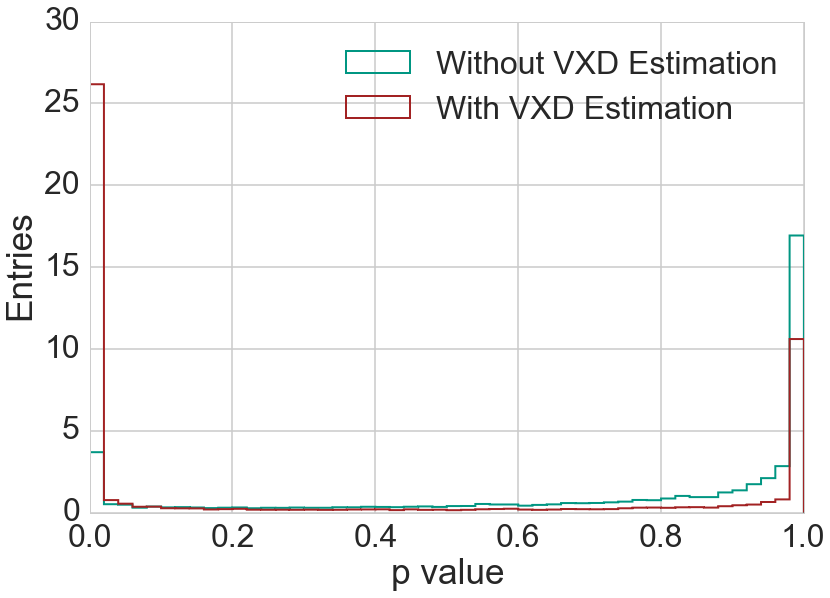
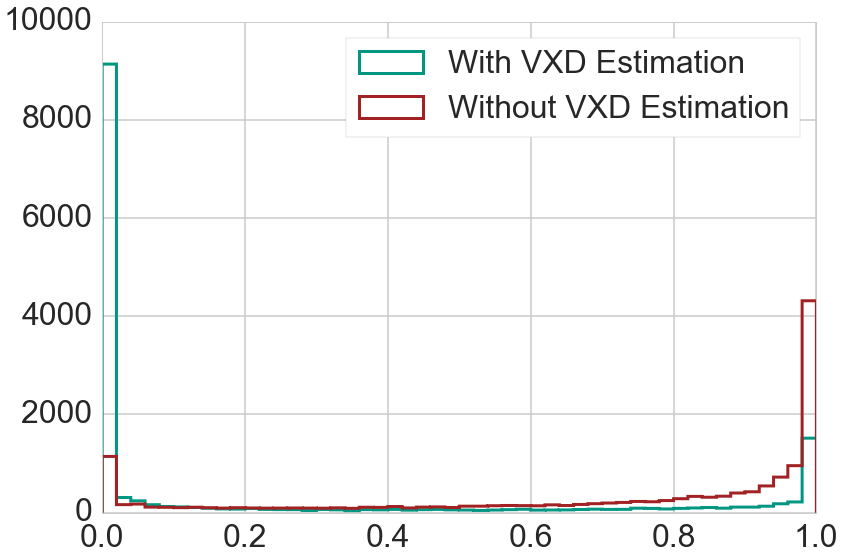
Nearly finished VXD chapter

Changed region(s): [[0.0, 0.0, 0.994, 1.0]]

diff --git a/tex/vxd.tex b/tex/vxd.tex
@@ -1,7 +1,7 @@
 \newcommand{\dedx}{$\mathrm d E / \mathrm d x$ }
 \chapter{Momentum estimation of slow pions with the ADC in the VXD}
 
-When looking onto the typical momentum distribution of the particles flying through the tracking detectors as show in figure \ref{fig-particles-momentum} it is clear that there is a significant amount of so called slow pions with momenta in the order of $\unit[100]{MeV}$. Slow pions play an important role for the physic analysis planned for the Belle II experiment as they are extensively used in flavour tagging decays (e.g. $\PDstar^\pm \to \PDzero \Ppipm$). Measuring the momentum of these particles leads to a better resolution in the momenta of the parent particles $\PDzero$ and $\PDstar$ which is used in separating continuous background from signal events. These slow pions get produced near the interaction point and because of their small momentum and therefore high curvature and their huge energy losses they can not be detected in the CDC tracking detector. This means they can only be measured in the VXD. Because of the small radius of the VXD and the resulting small number of independent measurement points, the momentum resolution is very poor as it can be seen in the Glückstern formula
+When looking onto the typical momentum distribution of the particles flying through the tracking detectors as show in figure \ref{fig-particles-momentum} it is clear that there is a significant amount of so called slow pions with momenta in the order of $\unit[100]{MeV}$. Slow pions play an important role for the physic analysis planned for the Belle II experiment as they are extensively used in flavor tagging decays (e.g. $\PDstar^\pm \to \PDzero \Ppipm$). Measuring the momentum of these particles leads to a better resolution in the momenta of the parent particles $\PDzero$ and $\PDstar$ which is used in separating continuous background from signal events. These slow pions get produced near the interaction point and because of their small momentum and therefore high curvature and their huge energy losses they can not be detected in the CDC tracking detector. This means they can only be measured in the VXD. Because of the small radius of the VXD and the resulting small number of independent measurement points, the momentum resolution is very poor as it can be seen in the Glückstern formula
 \begin{align*}
  \frac{\sigma_{p_T}}{p_T} = \sqrt{\frac{720}{N + 4}} \sigma_x \frac{p_T \text{[GeV]}}{0.3 q B \text{[T]} L^2}
 \end{align*}
@@ -24,7 +24,7 @@ for small particle energies. The equation can be used to calculate the momentum 
 
 \begin{figure}
  \centering
- \includegraphics[width=0.8\linewidth]{figures/vxd/dedx.png}
+ \includegraphics[width=0.8\linewidth]{figures/vxd/dedxWithEstimator.png}
  \caption[\dedx information of the VXD clusters.]{\dedx information of the VXD clusters of approximately 100000 pions in the momentum range from 50 to 120 MeV. The averaged energy loss can be described by the Bethe formula. The distribution of energy losses for a given momentum is distributed according to a landau distribution which is described later in more detail. To transform the \dedx value to a momentum the red estimator curve is used later.}
  \label{fig-dedx-over-p}
 \end{figure}
@@ -32,12 +32,13 @@ for small particle energies. The equation can be used to calculate the momentum 
 
 \section{Prestudies on the distribution of dE/dX in the VXD}
 
-For the following studies an event sample of slow pions in the momentum range between $\unit[50]{MeV}$ and $\unit[120]{MeV}$ is used. It is simulated using the particle gun with 10 particles per event evenly distributed among the momentum range and between the two charge modes. The sample is split into different event samples for testing and fitting. The standalone VXD track finder or the MC track finder for reference is used to create tracks out of the simulated VXD hits. As the finding efficiency of the standalone VXD track finder depends heavily on the momenta of the particles, the distribution of the found tracks is not flat any more as it can be seen in figure \ref{fig-vxd-finding-efficiency}. A typical event display can be seen in picture \ref{fig-vxd-event-display}.
+For the following studies an event sample of slow pions in the momentum range between $\unit[50]{MeV}$ and $\unit[120]{MeV}$ is used. It is simulated using the particle gun with 10 particles per event evenly distributed among the momentum range and between the two charge modes. The sample is split into different event samples for testing and training. The standalone VXD track finder or the MC track finder for reference is used to create tracks out of the simulated VXD hits. As the finding efficiency of the standalone VXD track finder depends heavily on the momenta of the particles, the distribution of the found tracks is not flat any more as it can be seen in figure \ref{fig-vxd-finding-efficiency}. A typical event display can be seen in picture \ref{fig-vxd-event-display}.
 
 \begin{figure}
  \centering
  \includegraphics[width=0.48\linewidth]{figures/vxd/finding_efficiency.png}
  \includegraphics[width=0.48\linewidth]{figures/vxd/finding_efficiency_mc.png}
+ \todo{why is there a drop?}
  \caption[Momentum distribution of the found and simulated pions.]{Momentum distribution of the simulated pions as found by the VXD track finder (left) and the MC track finder (which has the simulated truth information, right). The finding efficiency decreases with lower momenta as the number of hits in the VXD is lower for slow pions and the energy loss is stronger. The MC track finder has also not a flat distribution of momenta as it only uses those particles for tracks which have at least 3 hits in the VXD detector.}
  \label{fig-vxd-finding-efficiency}
 \end{figure}
@@ -102,17 +103,17 @@ This procedure is correct for most of the time but fails in some rare cases. Som
   \label{fig-errors-in-path-length}
 \end{figure}
 
-In figure \ref{fig-pathlengths} the distribution of the path lengths from the simulated MC truth values is shown. As most of the particles go more or less straight through the sensors, there are two peaks in the distribution - one for each hit type as the two types PXD and SVD have a different thickness. Deviations from the thickness come from curling particles. The fact that there are only few tracks with very high deviations from the thickness values verifies th claim that the helix calculation is wrong only for very rare cases.
+In figure \ref{fig-pathlengths} the distribution of the path lengths from the simulated MC truth values is shown. As most of the particles go more or less straight through the sensors, there are two peaks in the distribution - one for each hit type as the two types PXD and SVD have a different thickness. Deviations from the thickness come from curling particles. The fact that there are only few tracks with very high deviations from the thickness values verifies the claim that the helix calculation is wrong only for very rare cases.
 
-The second subplot shows the distribution of the residuals of the other four path length calculations to these reference values as a violin plot.
+The second subplot shows the distribution of the residuum of the other four path length calculations to these reference values as a violin plot.
 
-\todo{Beschreibung!}
+As it can be seen... \todo{Beschreibung!}
 
 \begin{figure}
  \centering
  \includegraphics[width=0.7\linewidth]{figures/vxd/pathLengths.png}
 %   \includegraphics[width=0.7\linewidth]{figures/vxd/pathLengthsDifferentCalculations.png}
- \todo{priture}
+ \todo{picture}
  \caption[Path length distribution for the two sensor types.]{The plot shows the path length distribution for the two sensor types as a result of the simulation. This distribution is used for reference in the right plot which shows the residuum distribution of the other path length calculation modes.}
  \label{fig-pathlengths}
 \end{figure}
@@ -123,9 +124,9 @@ For calculating a momentum estimation from the \dedx value the inverted function
 \begin{align}
  p(\mathrm{d}E/\mathrm{d} x) = \frac{a}{(\mathrm{d}E/\mathrm{d} x - b)^2} + c \cdot \mathrm{d}E/\mathrm{d} x + d \label{form-model}
 \end{align}
-with the free parameters $a, b, c$ and $d$ is fitted to the \dedx-momentum-values where \dedx is calculated with path lengths from mode (\ref{list-mc}) and the momentum is taken from the MC simulation at this cluster (so including energy loss by material effects).
+with the free parameters $a, b, c$ and $d$ is fitted to the $\mathrm d E / \mathrm d x$-momentum-values where \dedx is calculated with path lengths from mode (\ref{list-mc}) and the momentum is taken from the MC simulation at this cluster (so including energy loss by material effects).
 
-The fitting parameters can not be determined by fitting the model function to the whole distribution at once as shown for example in figure \ref{fig-dedx-over-p}. The reason is that because of the landau distributed energy loss the number of outliers is too high and caused the fit to fail. An example of the landau distribution showing the large amount of outliers deviating from the mean energy loss is shown in picture \ref{fig-landau}. This is why a reduce approach is chosen here: First the \dedx-range is split into several small bins. In each of them the momentum distribution is build. This distribution is then fitted with a landau or a normal distribution. Mathematically, the momentum distribution in these \dedx-bins is neither distributed according to a landau nor a normal distribution but the correct form can not be calculated analytically and these two distributions describe the data best.\footnote{The correct form of the distribution can be calculated by integrating over parts of the landau distribution folded with the inverted Bethe-equation, which is not analytically solvable.} The resulting parameters of the distributions (the mean of the gauß or the location parameter of the landau distribution\cite{landau}) are then used for fitting the model function (\ref{form-model}). The whole process can be seen in figure \ref{fig-fit-bins}.
+The fitting parameters can not be determined by fitting the model function to the whole distribution at once as shown for example in figure \ref{fig-dedx-over-p}. The reason is that because of the landau distributed energy loss the number of outliers is too high and causes the fit to fail. An example of the landau distribution showing the large amount of outliers deviating from the mean energy loss is shown in picture \ref{fig-landau}. This is why a reduce approach is chosen here: First the $\mathrm d E / \mathrm d x$-range is split into several small bins. In each of them the momentum distribution is build. This distribution is then fitted with a landau or a normal distribution. Mathematically, the momentum distribution in these $\mathrm d E / \mathrm d x$-bins is neither distributed according to a landau nor a normal distribution but the correct form can not be calculated analytically and these two distributions describe the data best.\footnote{The correct form of the distribution can be calculated by integrating over parts of the landau distribution folded with the inverted Bethe-equation, which is not analytically solvable.} The resulting parameters of the distributions (the mean of the gauß or the location parameter of the landau distribution\cite{landau}) are then used for fitting the model function (\ref{form-model}). The whole process can be seen in figure \ref{fig-fit-bins}.
 
 \begin{figure}
   \centering
@@ -138,7 +139,7 @@ The fitting parameters can not be determined by fitting the model function to th
   \centering
   \includegraphics[width=0.48\linewidth]{figures/vxd/fitLandau1.png}
   \includegraphics[width=0.48\linewidth]{figures/vxd/fitLandau2.png}
-  \caption[The process of obtaining the estimator function $p(\mathrm d E/\mathrm d x)$.]{The process of obtaining the estimator function $p(\mathrm d E/\mathrm d x)$. The left picture shows the p-distributions for 15 \dedx bins. Each of the distributions get fitted by a landau distribution. The right plot shows the location parameter of these fitted landau distributions are then used to fit the model in equation (\ref{form-model}).}
+  \caption[The process of obtaining the estimator function $p(\mathrm d E/\mathrm d x)$.]{The process of obtaining the estimator function $p(\mathrm d E/\mathrm d x)$. The left picture shows the p-distributions for 15 \dedx bins. Each of the distributions get fitted by a landau distribution. The right plot shows the location parameter of these fitted landau distributions. These values are then used to fit the model in equation (\ref{form-model}).}
   \label{fig-fit-bins}
 \end{figure}
 
@@ -161,24 +162,24 @@ Besides the here presented two methods to gain the estimator function $p(\mathrm
 
 Before describing the results of the momentum resolution with and without the new momentum estimation, the incorporation of this new measurement type is described shortly. For this, the measurement model used in genfit is summarized here briefly. More information can be found elsewhere \cite{genfit}.
 
-The idea of the genfit package as a generalized track fitting package is to not rely on a certain detector configuration but rather threat the measured hits in a general form. For this, every hit is transformed into a an overloaded class of an \texttt{AbstractMeasurement}. This general measurement can hold up to five general coordinate measurements, which are two local coordinates $u$ and $v$, two local direction measurements $u'$ and $v'$ and an measurement for $q/p$. The measurement stores also the errors and covariances to these measurements and a generalized plane one which the measurements are defined and on which the local coordinates are defined. As the user does not have to provide all coordinate measurement on every \texttt{AbstractMeasurement}. This general scheme makes it possible to incorporate all different results of the measuring detectors, e.g. VVD hits (which define a plane as the sensor plane and give one coordinate measurement of $u$ or $v$ for each strip in the case of SVD hits and both coordinates for PXD hits) or CDC wire hits (where the definition of a plane is more difficult to choose why the plane gets redefined in every fit iteration). As the real detector measurements are uncoupled from the fitting algorithm, the implemented fitters do not have to be adopted to cope with different measurements.
+The idea of the genfit package as a generalized track fitting package is to not rely on a certain detector configuration but rather threat the measured hits in a general form. For this, every hit is transformed into an derived class of an \texttt{AbsMeasurement}. This general measurement can hold up to five general coordinate measurements, which are two local coordinates $u$ and $v$, two local direction measurements $u'$ and $v'$ and an measurement for $q/p$. The measurement stores also the errors and covariances of these measurements and a generalized plane one which the measurements and the local coordinates are defined. The user does not have to provide all coordinate measurement on every \texttt{AbsMeasurement}. This general scheme makes it possible to incorporate all different results of the measuring detectors, e.g. VXD hits (which define a plane as the sensor plane and give one coordinate measurement of $u$ or $v$ for each strip in the case of SVD hits and both coordinates for PXD hits) or CDC wire hits (where the definition of a plane is more difficult to choose leading to a redefinition of the plane in every fit iteration). As the real detector measurements are uncoupled from the fitting algorithm, the implemented fitters do not have to be adopted to cope with different measurements.
 
-To include the momentum estimation based on the \dedx value into the fit also, one has therefore to include another \texttt{AbstractMeasurement} into the tracks for each VXD hit which is only filled with the $q/p$-coordinate and has the same plane as the positional measurement for this VXD hit. Another possibility would be to include this coordinate also in the already created positional measurements (by filling the two local positions $u$ and $v$ and the $q/p$ coordinate also). The downside of this approach is that the DAF described in chapter \ref{chapter-theory} is then only able to downweight the whole measurement with the positional and the momentum coordinates and not the single measurement types only.
+To include the momentum estimation based on the \dedx value into the fit also, one has therefore to include another \texttt{AbsMeasurement} into the tracks for each VXD hit which is only filled with the $q/p$-coordinate and has the same plane as the positional measurement for this VXD hit. Another possibility would be to include this coordinate also in the already created positional measurements (by filling the two local positions $u$ and $v$ and the $q/p$ coordinate also). The downside of this approach is that the DAF described in chapter \ref{chapter-theory} is then only able to downweight the whole measurement with the positional and the momentum coordinates and not the single measurement types only.
 
 \subsection{Code basis for the fitting procedure}
 
-On adding the momentum estimation to the VXD hits, the whole fitting framework in basf2 was rewritten. The former \texttt{genfit::Track} and the \texttt{genfit::TrackCand} where merged into a \texttt{RecoTrack} based on the \texttt{genfit::Track} which suits better to the StoreArray-scheme of the framework. Together with the new \texttt{RecoTrack} also other modules for fitting had to be written. The former \texttt{Genfitter} module was split up into smaller modules, each handling a single task. In the following, only the \texttt{MeasurementCreatorModule} will be described. More information on the \texttt{RecoTrack} and the other modules can be found in chapter \ref{chapter-addon}.
+In parallel to adding the momentum estimation to the VXD hits - but for other reasons also - the whole fitting framework in basf2 was rewritten. The former \texttt{genfit::Track} and the \texttt{genfit::TrackCand} where merged into a \texttt{RecoTrack} based on the \texttt{genfit::Track} which suits better to the StoreArray-scheme of the framework. Together with the new \texttt{RecoTrack} also other modules for fitting had to be written. The former \texttt{Genfitter} module was split up into smaller modules, each handling a single task. In the following, only the \texttt{MeasurementCreatorModule} will be described. More information on the \texttt{RecoTrack} and the other modules can be found in chapter \ref{chapter-addon}.
 
-The task of this module is to create the measurements for each hit added to the \texttt{RecoTrack} by the track finding algorithms. The measurements can then be used by the track fitting routine. The \texttt{MeasurementCreatorModule} does so by calling configurable \texttt{MeasurementCreator} objects on all hits which can  create a measurement out of the hit and the \texttt{RecoTrack}. There are preconfigured \texttt{MeasurementCreator} classes for turning the found hits into normal positional measurements like it was done before by the \texttt{GenfitterModule}. To handle the configuration of these \texttt{MeasurementCreator} objects in an easier way, the design pattern of factories was used in the module. Each type of \texttt{MeasurementCreator} objects (for looping over SVD, PXD or CDC hits found by the track finder or for no underlaying track finder hit at all) has an \texttt{MeasurementCreatorFactory}. These factories handle the configuration and initialization of the \texttt{MeasurementCreator} object which in turn create measurements and add them to the \texttt{RecoTrack}. The configuration of the factories can be done via dictionaries passed as module parameters in the steering files. The whole process is shown in figure \ref{fig-measurement-creator}.
+The task of this module is to create the measurements for each hit added to the \texttt{RecoTrack} by the track finding algorithms. The measurements can then be used by the track fitting routine. The \texttt{MeasurementCreatorModule} does so by calling configurable \texttt{MeasurementCreator} objects on all hits which can create a measurement out of the hit and the \texttt{RecoTrack}. There are preconfigured \texttt{MeasurementCreator} classes for turning the found hits into normal positional measurements like it was done before by the \texttt{GenfitterModule}. To handle the configuration of these \texttt{MeasurementCreator} objects in an easier way, the design pattern of factories was used in the module. Each type of \texttt{MeasurementCreator} objects (for looping over SVD, PXD or CDC hits found by the track finder or for no underlaying track finder hit at all) has an \texttt{MeasurementCreatorFactory}. These factories handle the configuration and initialization of the \texttt{MeasurementCreator} objects which in turn create measurements and add them to the \texttt{RecoTrack}. The configuration of the factories can be done via dictionaries passed as module parameters in the steering files. The whole process is shown in figure \ref{fig-measurement-creator}.
 
 \begin{figure}
   \centering
   \includegraphics[width=\linewidth]{figures/vxd/measurementCreator.pdf}
-  \caption[Diagram showing the creation of measurements.]{Diagram showing the creation of measurements in the \texttt{MeasurementCreatorModule} as described in the text. Each \texttt{RecoTrack} includes PXD, SVD and CDC hits (blue) added by the track finder algorithms which must be transformed into \texttt{AbstractMeasurement} objects (orange) to be handled by the track fitting routine later. These measurements can include positional, directional and/or $q/p$ coordinate values with their errors.}
+  \caption[Diagram showing the creation of measurements.]{Diagram showing the creation of measurements in the \texttt{MeasurementCreatorModule} as described in the text. Each \texttt{RecoTrack} includes PXD, SVD and CDC hits (blue) added by the track finder algorithms which must be transformed into \texttt{AbsMeasurement} objects (orange) to be handled by the track fitting routine later. These measurements can include positional, directional and/or $q/p$ coordinate values with their errors.}
   \label{fig-measurement-creator}
 \end{figure}
 
-The momentum estimation of the VXD hits is included into the fit as another measurement - created also by a \texttt{MeasurementCreator} object. The measurements are created before the track fit but get called for their parameters in ever fitting iteration right before the fit uses the coordinates in the measurement. This fact can be used to calculate the plane (as used in the CDC hits) or the coordinates just before using them. Therefore it is possible to use the fitted state right in front of the hit to calculate the path length as described in subsection \ref{subsection-calc}. Together with the estimation for $q/p$ also the error on this coordinate has to be included into the \texttt{AbstractMeasurement}. This error can be calculated using the MC momentum used for calculating the estimator function and comparing this to the estimator function result. The error is fixed to 0.3, but can in principle be also calculated for every measurement independently.
+The momentum estimation of the VXD hits is included into the fit as another measurement - created also by a \texttt{MeasurementCreator} object. The measurements are created before the track fit but get called for their parameters in ever fitting iteration right before the fit uses the coordinates in the measurement. This fact can be used to calculate the plane (as used in the CDC hits) or the coordinates just before using them. Therefore it is possible to use the fitted state right in front of the hit to calculate the path length as described in subsection \ref{subsection-calc}. Together with the estimation for $q/p$ also the error on this coordinate has to be included into the \texttt{AbsMeasurement}. This error can be calculated using the MC momentum used for calculating the estimator function and comparing this to the estimator function result. The error is fixed to 0.3 in the moment, but can in principle be also calculated for every measurement independently.
 
 \subsection{Results for the resolution after track fitting}
 
@@ -204,9 +205,9 @@ The above described estimation is included as a \texttt{MeasurementCreator} for 
   \label{fig-results-fit2}
 \end{figure}
 
-As it can be seen in the result figures, the incorporation of the VXD momentum estimation into the helix fit can increase the resolution of the momentum quite drastically for low momentum tracks while also increasing the number of successful fits. As the landau seems to perform slightly better than the gauß fitted estimator function, these values are used in the following. Although the median-corrected functions should theoretically behave better, the resolution could not be increased. This may come from the worsen IQR of the corrected estimators as seen in figure \ref{fig-divp-residuum}. The differences between the different path length calculations are not that big as expected from the prestudies of the path lengths before. As expected, the calculation with the MC track parameters at the hit perform best followed by the track parameters at the hit while fitting wheres the distance is only very small as the fitted parameters and the MC parameters are similar enough.
+As it can be seen in the result figures, the incorporation of the VXD momentum estimation into the helix fit can increase the resolution of the momentum quite drastically for low momentum tracks while also increasing the number of successful fits. As the landau seems to perform slightly better than the gauß fitted estimator function, these values are used in the following. Although the median-corrected functions should theoretically behave better, the resolution could not be increased. This may come from the worsen IQR of the corrected estimators as seen in figure \ref{fig-divp-residuum}. The differences between the different path length calculations are not that big as expected from the prestudies of the path lengths before. As expected, the calculation with the MC track parameters at the hit perform best followed by the track parameters at the hit while fitting wheres the distance is only very small as the fitted parameters and the MC parameters are similar enough. For momenta above 100 MeV the estimator gives worse results as it can be seen also in figure \ref{fig-dedx-over-p}. This is why the momentum resolution deteriorates for higher momenta. There is already a cut for only applying the momentum estimation for low-momenta-tracks, but because of implementation details in the genfit package this cut can only be evaluated before the fit - so using the track finder seed parameters. As these parameters often underestimate the momentum (because of energy losses due to material effects), the momentum estimation gets applied although the estimator is not build for this momentum region. To solve this problem, a ``smarter'' cut should be introduced.
 
-Besides the momentum resolution, the resolution of the other helix parameters should not be decreased by the momentum estimation measurements. The perigee position of the fitted tracks with and without the momentum estimation with the landau fit function and path lengths from the track fit state is shown in figure \ref{fig-position}. As all tracks where simulated using a particle gun at the origin, the position should be exactly zero. For better comparison, the VXD and CDC tracks where merged and fitted together. As it can be seen in the picture, the resolution in the position is reduced by introducing the momentum estimation into the fit. One reason for this is probably the neglected correlation between the momentum estimation and the position measurement. Another issue is the fixed error of the momentum estimation, which can bias the fit. The resolution in the $z$ coordinate stays equally good - only the $x$ and $y$ coordinates are affected. Further analysis must be done to increase the resolution of the perigee position again.
+Besides the momentum resolution, the resolution of the other helix parameters should not be decreased by the momentum estimation measurements. The perigee position of the fitted tracks with and without the momentum estimation with the landau fit function and path lengths from the track fit state is shown in figure \ref{fig-position}. As all tracks where simulated using a particle gun at the origin, the position should be exactly zero. For better comparison with the typical validation plots shown in the collaboration, the VXD and CDC tracks are merged and fitted together. As it can be seen in the picture, the resolution in the position is reduced by introducing the momentum estimation into the fit. One reason for this is probably the neglected correlation between the momentum estimation and the position measurement. Another issue is the fixed error of the momentum estimation, which can bias the fit. The resolution in the $z$ coordinate stays equally good - only the $x$ and $y$ coordinates are affected. Further analysis must be done to increase the resolution of the perigee position again.
 
 \begin{figure}
   \centering
@@ -218,26 +219,33 @@ Besides the momentum resolution, the resolution of the other helix parameters sh
   \label{fig-position}
 \end{figure}
 
-The next analysis is concerning the errors included into the momentum measurement. As the error is included as a fixed value for all momenta, it is not expected to be correct. Nevertheless the pull distribution of the momentum and the three position resolutions is calculated and shown in figure \ref{fig-pull}. \todo{Beschreibung}
+% the pull distribution of the momentum and the three position resolutions is calculated and shown in figure \ref{fig-pull}. \todo{Beschreibung}
 
-\begin{figure}
-  \centering
+% \begin{figure}
+%   \centering
 %   \includegraphics[width=0.48\linewidth]{figures/vxd/pullMomentum.pdf}
 %   \includegraphics[width=0.48\linewidth]{figures/vxd/pullPositionX.pdf}
 
 %   \includegraphics[width=0.48\linewidth]{figures/vxd/pullPositionY.pdf}
 %   \includegraphics[width=0.48\linewidth]{figures/vxd/pullPositionZ.pdf}
-  \todo{picture}
-  \caption[Pull distributions for the total momentum and the three coordinates of the perigee.]{Pull distributions for the total momentum and the three coordinates of the perigee. TODO: Beschreibung}
-  \label{fig-pull}
+%   \todo{picture}
+%   \caption[Pull distributions for the total momentum and the three coordinates of the perigee.]{Pull distributions for the total momentum and the three coordinates of the perigee. TODO: Beschreibung}
+%   \label{fig-pull}
+% \end{figure}
+
+The next analysis is concerning the errors included into the momentum measurement. As the error is included as a fixed value for all momenta, it is not expected to be correct. Nevertheless the p-value of the whole track fit is presented in figure \ref{fig-p-values} with and without the VXD momentum estimation again with CDC and VXD tracks merged. The error introduced in the new measurement seems to be underestimated which causes the p-value to shift to smaller values. This can be caused by the fixed value of the error for all momenta (which is definitely wrong as the residuum distribution behaves differently for different momenta as seen in figure \ref{fig-results-fit1}). Another reason is the distribution of \dedx for a fixed momenta - a landau distribution - which has a long tail towards higher energy losses and can therefore not be described well by a gaussian distribution (which must be used to calculate the error in genfit). Here is probably much room for improvement in further developments.
+
+\begin{figure}
+  \centering
+  \includegraphics[width=0.7\linewidth]{figures/vxd/pValue.png}
+  \caption{P-values of the whole track fit with and without the VXD momentum estimation for merged CDC and VXD tracks with the landau fit function and path lengths calculated with the current fit state. The p-value is much lower with the VXD momentum estimation indicating underestimated errors introduced in the fit.}
+  \label{fig-p-values}
 \end{figure}
 
-\todo{Results p value}
 
 \section{Conclusion and further possibilities}
 
-\todo{finish}
-Conclusion: Resolution can be increased
-Future: In fit (as Sergej described)
-Future: Better errors
-Future: Better cut
+By introducing a new measurement type into the fit of VXD tracks using a prefitted momentum estimator function and the \dedx value, the resolution of the momentum after the fit could be increased for low momenta tracks. The handling of the error of this measurement and the correlations to the other coordinates (especially the local position coordinates) must be further analyzed to enhance the position information and the p-values again. Also a better handling of the decision when to apply the momentum estimation should be included. The \texttt{MeasurementCreator} and the measurement type of the VXD momentum estimation should be constructed in such a way to handle these improvements.
+
+A different approach was used in other experiments \cite{sergey}: the fitting algorithm calculates the energy loss in every sensor when handling the material effects in every fit step. This energy loss can be compared to the one measured by the sensors and the fit parameters can be corrected. This method has the benefit of not needing a momentum estimator function for transforming the \dedx value to a momentum estimation as it uses the raw \dedx information. It also does not need to calculate the path length by using a helix parametrization but uses the step length in every fit step. The downside of this approach is, that it relies on a correctly calibrated measured energy loss in the sensor with which it can compare. Another disadvantage is that the energy loss measurement can not be handled in the same way as the other measurements and there is not possibility to downweight it in the DAF algorithm or include the correlation to the coordinate measurements. When it comes to the underestimated error because of the landau tail and the condition when to include this momentum estimation, this approach shares the same problems as the here presented.
+
